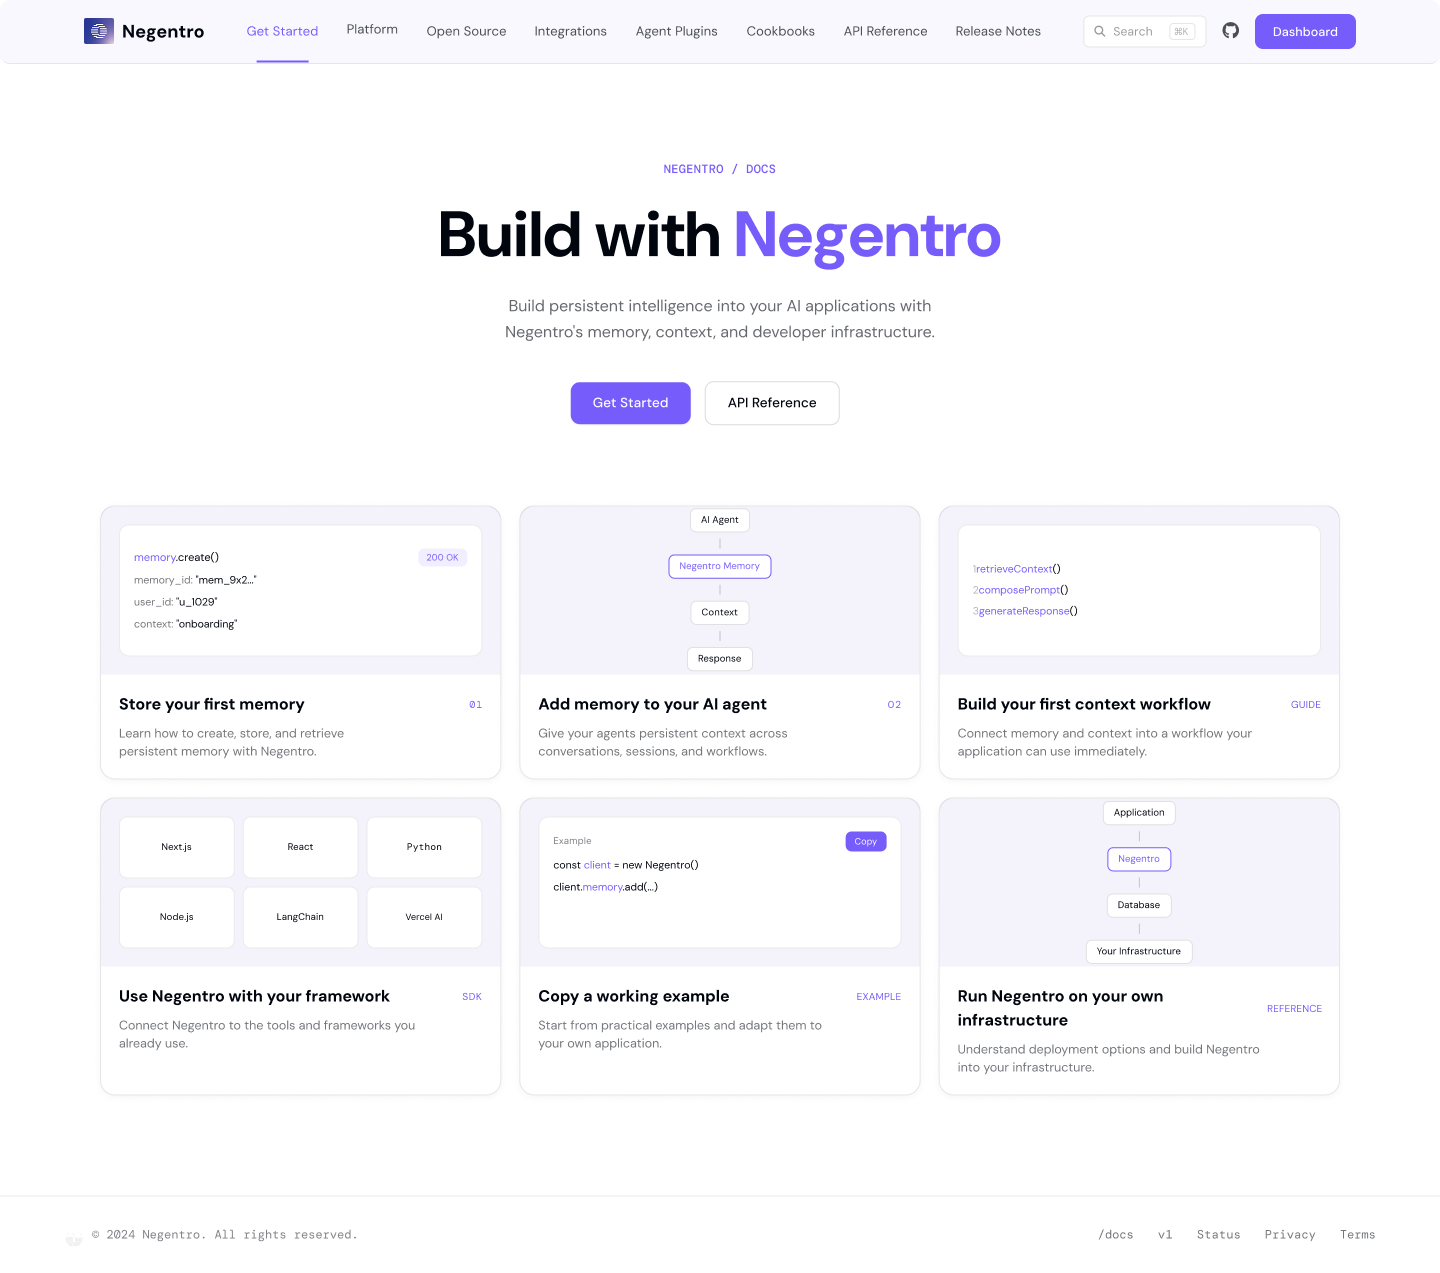
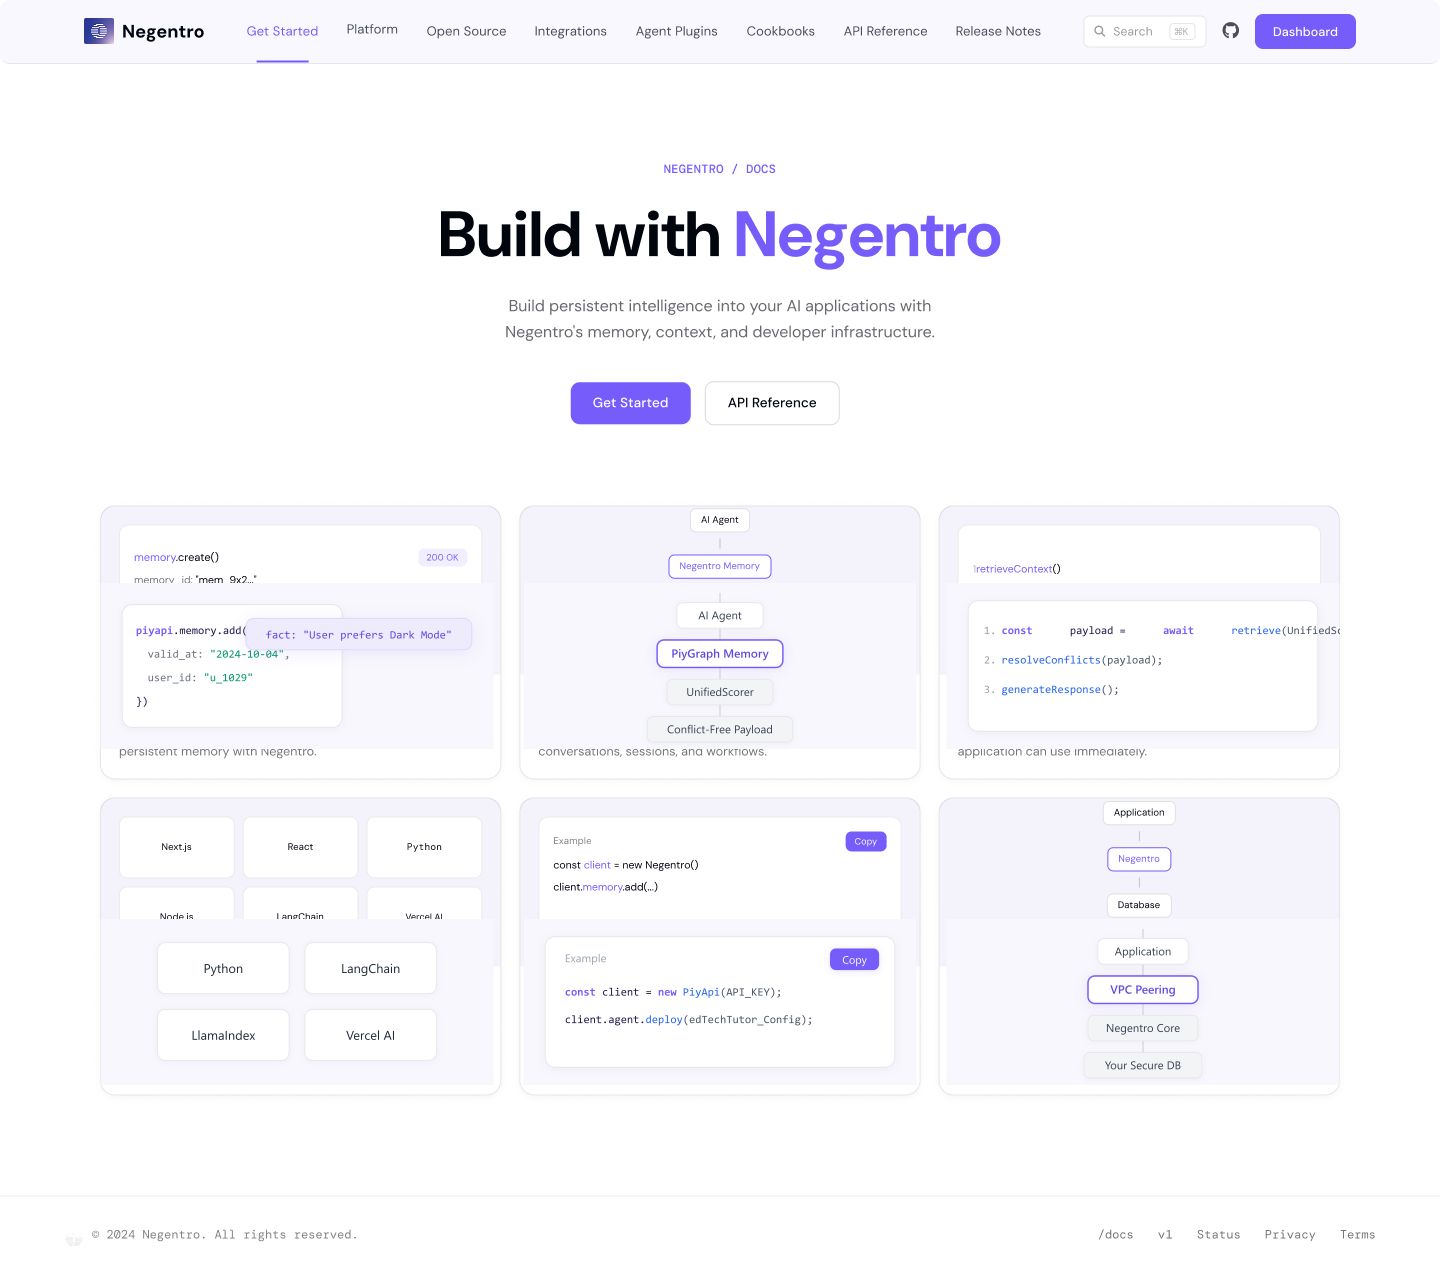
docs: update homepage guide cards design to match Figma node 368-412 with sharp vector illustrations

diff --git a/docs/style.css b/docs/style.css
@@ -175,26 +175,47 @@ html:has(.negentro-guides) :is(.mdx-content, mdx-content) > p:first-of-type {
   outline: 2px solid #765dfb;
   outline-offset: 4px;
 }
-/* Decorative panels reuse the supplied design. Text and links remain native. */
+/* Decorative panels matching Figma design */
 .negentro-guide::before {
   content: "";
   display: block;
   flex-shrink: 0;
   width: 100%;
   aspect-ratio: 400 / 169;
-  background-image: url('/images/negentro-homepage-reference.png');
   background-repeat: no-repeat;
-  background-size: 360% 753.2544%;
-  background-position: var(--preview-x) var(--preview-y);
+  background-position: center;
+  background-size: 100% 100%;
+  border-bottom: 1px solid #f0edf9;
 }
-.negentro-memory { --preview-x: 9.6154%; --preview-y: 45.8333%; --guide-label: "01"; }
-.negentro-agent { --preview-x: 50%; --preview-y: 45.8333%; --guide-label: "02"; }
-.negentro-workflow { --preview-x: 90.3846%; --preview-y: 45.8333%; --guide-label: "GUIDE"; }
-.negentro-framework { --preview-x: 9.6154%; --preview-y: 72.2826%; --guide-label: "SDK"; }
-.negentro-example { --preview-x: 50%; --preview-y: 72.2826%; --guide-label: "EXAMPLE"; }
-.negentro-infrastructure { --preview-x: 90.3846%; --preview-y: 72.2826%; --guide-label: "REFERENCE"; }
+
+.negentro-memory::before {
+  background-image: url('/images/card-memory.svg');
+}
+.negentro-agent::before {
+  background-image: url('/images/card-agent.svg');
+}
+.negentro-workflow::before {
+  background-image: url('/images/card-workflow.svg');
+}
+.negentro-framework::before {
+  background-image: url('/images/card-framework.svg');
+}
+.negentro-example::before {
+  background-image: url('/images/card-example.svg');
+}
+.negentro-infrastructure::before {
+  background-image: url('/images/card-infrastructure.svg');
+}
+
+.negentro-memory { --guide-label: "01"; }
+.negentro-agent { --guide-label: "02"; }
+.negentro-workflow { --guide-label: "GUIDE"; }
+.negentro-framework { --guide-label: "SDK"; }
+.negentro-example { --guide-label: "EXAMPLE"; }
+.negentro-infrastructure { --guide-label: "REFERENCE"; }
+
 .negentro-guide [data-component-part="card-content-container"] {
-  padding: 18px;
+  padding: 20px 22px 24px;
 }
 .negentro-guide [data-component-part="card-title"] {
   position: relative;
@@ -203,20 +224,22 @@ html:has(.negentro-guides) :is(.mdx-content, mdx-content) > p:first-of-type {
   font-size: 16px;
   line-height: 1.45;
   font-weight: 650;
+  letter-spacing: -0.01em;
 }
 .negentro-guide [data-component-part="card-title"]::after {
   content: var(--guide-label);
   position: absolute;
   right: 0;
-  top: 5px;
+  top: 4px;
   color: #765dfb;
   font: 10px/1.5 ui-monospace, monospace;
+  font-weight: 600;
 }
 .negentro-guide [data-component-part="card-content"] {
   margin: 0;
   color: #777982;
-  font-size: 13px;
-  line-height: 1.5;
+  font-size: 13.5px;
+  line-height: 1.55;
 }
 .negentro-guide [data-component-part="card-content"] p {
   margin: 0;
@@ -230,7 +253,8 @@ html.dark:has(.negentro-guides) :is(.mdx-content, mdx-content) > p:first-of-type
   color: #b8b4c4;
 }
 html.dark .negentro-guide::before {
-  filter: brightness(0.8);
+  filter: brightness(0.85);
+  border-bottom-color: #262232;
 }
 @media (max-width: 1023px) {
   .negentro-guides { grid-template-columns: repeat(2, minmax(0, 1fr)); }
